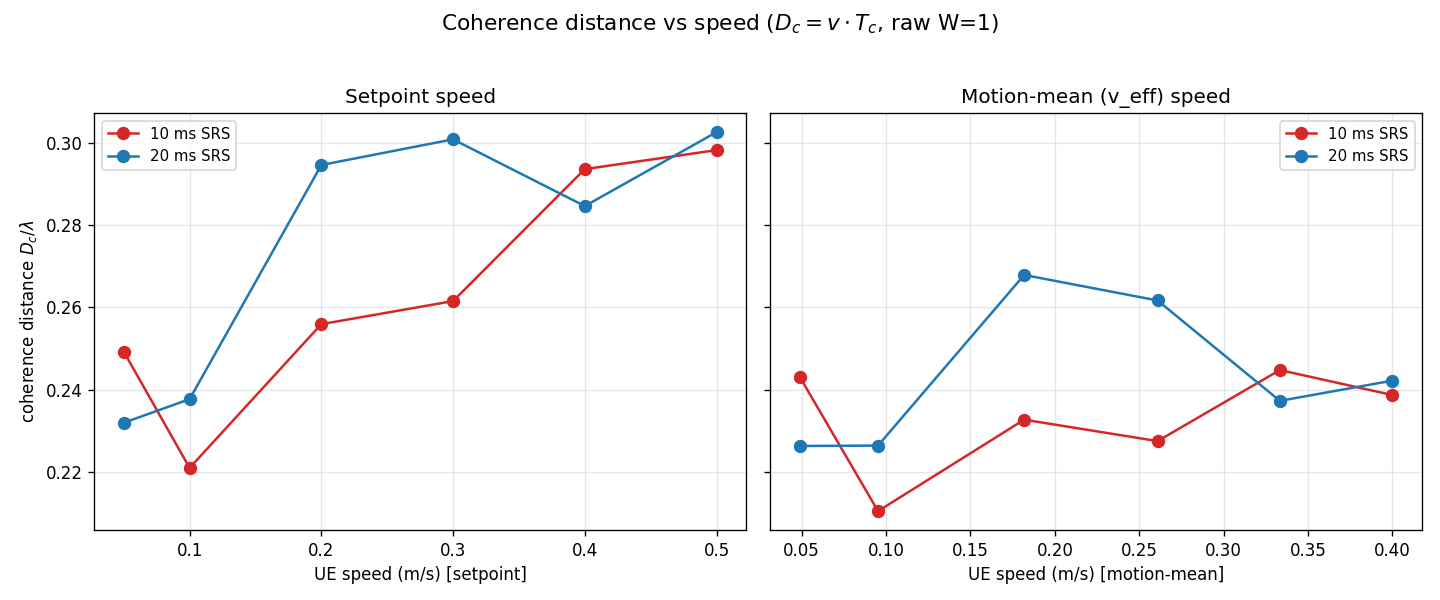
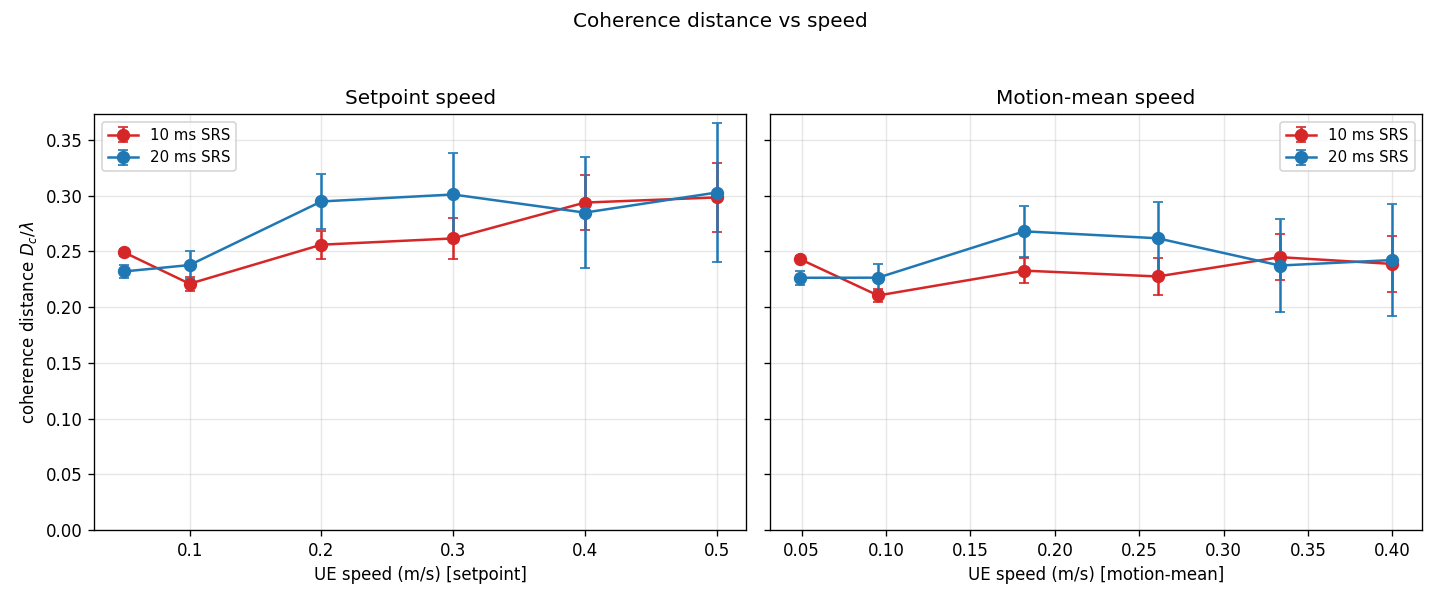
Plot cleanup: zero-based y, error bars, all points in mean, trimmed titles

diff --git a/tools/plot_Dc_errorbar.py b/tools/plot_Dc_errorbar.py
@@ -1,42 +1,26 @@
 #!/usr/bin/env python3
-"""
-plot_Dc_errorbar.py
-Coherence distance vs speed for ONE SRS rate, with error bars.
-Dc = v_eff * Tc, error bars = +/- half-sample Tc resolution (interpolated crossing).
-Mean +/- sd band over reliable range (v_set >= --reliable-min).
-
-Usage:
-  python3 plot_Dc_errorbar.py mobility_tc_rawwindow.csv --win 10 \
-      --x 0.5 --t-acc 0.5 --freq-ghz 3.75 -o Dc_10ms_errorbar.png
-"""
+"""Dc/lambda vs speed, one SRS rate, error bars + constant mean band."""
 import csv, argparse
 import numpy as np
 import matplotlib
 matplotlib.use("Agg")
 import matplotlib.pyplot as plt
 C=299_792_458.0
-
 def vmean(v,x,T_acc):
     full=2*x; Tc=(full-v*T_acc)/v
     return v if Tc<=0 else full/(2*T_acc+Tc)
-
 def main():
     ap=argparse.ArgumentParser()
-    ap.add_argument("csv")
-    ap.add_argument("--win",type=int,default=10)
-    ap.add_argument("--x",type=float,default=0.5)
-    ap.add_argument("--t-acc",type=float,default=0.5)
+    ap.add_argument("csv"); ap.add_argument("--win",type=int,default=10)
+    ap.add_argument("--x",type=float,default=0.5); ap.add_argument("--t-acc",type=float,default=0.5)
     ap.add_argument("--freq-ghz",type=float,default=3.75)
     ap.add_argument("--speed",choices=["v_eff","setpoint"],default="v_eff")
     ap.add_argument("--drop-speed",type=float,nargs="*",default=[0.02])
-    ap.add_argument("--reliable-min",type=float,default=0.2)
-    ap.add_argument("--err-samples",type=float,default=0.5,
-                    help="Tc uncertainty in samples (0.5 for interpolated crossing)")
+    ap.add_argument("--reliable-min",type=float,default=0.0)
+    ap.add_argument("--err-samples",type=float,default=0.5)
     ap.add_argument("-o","--out",default="Dc_errorbar.png")
     args=ap.parse_args()
-
-    lam=C/(args.freq_ghz*1e9)
-    rows=[]
+    lam=C/(args.freq_ghz*1e9); rows=[]
     with open(args.csv) as f:
         for r in csv.DictReader(f):
             try:
@@ -46,35 +30,27 @@ def main():
                 rows.append((vs,float(r["Tc_meas_s"])))
             except (ValueError,KeyError): continue
     rows.sort()
-    if not rows:
-        print("no rows for win",args.win); return
     vs=np.array([r[0] for r in rows]); Tc=np.array([r[1] for r in rows])
     veff=np.array([vmean(v,args.x,args.t_acc) for v in vs])
-    vx = veff if args.speed=="v_eff" else vs
+    vx=veff if args.speed=="v_eff" else vs
     Dc=vx*Tc/lam
-    period=args.win/1000.0
-    dTc=args.err_samples*period
-    dDc=vx*dTc/lam
-
+    dDc=vx*(args.err_samples*args.win/1000.0)/lam
     mask=vs>=args.reliable_min
     m=Dc[mask].mean(); sd=Dc[mask].std()
-
     fig,ax=plt.subplots(figsize=(8,5.2))
     ax.axhline(m,color='green',lw=1.6,label=f'mean = {m:.3f} λ  (±{sd:.3f})')
     ax.fill_between([vx.min()*0.9,vx.max()*1.05],m-sd,m+sd,color='green',alpha=0.15)
     ax.errorbar(vx,Dc,yerr=dDc,fmt='o',color='#d62728',ms=8,capsize=4,lw=1.4,
-                label=f'measured $D_c=v\\cdot T_c$ ({args.win} ms)')
+                label=f'measured ({args.win} ms)')
     lab='effective (motion-mean)' if args.speed=='v_eff' else 'setpoint'
     ax.set_xlabel(f'{lab} UE speed  (m/s)')
     ax.set_ylabel('coherence distance  $D_c/\\lambda$')
-    ax.set_title(f'Coherence distance vs speed — {args.win} ms SRS (raw, W=1)\n'
-                 f'error bars = ±{args.err_samples} sample $T_c$ resolution',fontsize=11)
+    ax.set_title(f'Coherence distance vs speed — {args.win} ms SRS',fontsize=12)
     ax.set_ylim(0,max(0.45,(Dc+dDc).max()*1.1))
     ax.set_xlim(vx.min()*0.9,vx.max()*1.05)
     ax.grid(alpha=0.3); ax.legend(fontsize=9,loc='upper right')
     plt.tight_layout(); plt.savefig(args.out,dpi=120)
     print(f"wrote {args.out}")
     print(f"mean(v>={args.reliable_min}) = {m:.3f} ± {sd:.3f} λ = {m*lam*100:.2f} cm")
-    for v,d,e in zip(vx,Dc,dDc): print(f"  v={v:.3f}  Dc={d:.3f}±{e:.3f} λ")
-
+    for v,d,e in zip(vx,Dc,dDc): print(f"  v={v:.3f}  Dc={d:.3f}±{e:.3f}")
 if __name__=="__main__": main()

diff --git a/tools/plot_coherence_distance.py b/tools/plot_coherence_distance.py
@@ -1,9 +1,5 @@
 #!/usr/bin/env python3
-"""
-plot_coherence_distance.py
-Two panels: Dc/lambda vs speed for both SRS rates (10 & 20 ms).
-Left = setpoint speed, right = motion-mean (v_eff). No floor, no theory line.
-"""
+"""Dc/lambda vs speed, both SRS rates. Left=setpoint, right=motion-mean. Zero-based y, error bars."""
 import csv, argparse
 import numpy as np
 import matplotlib
@@ -33,9 +29,9 @@ def main():
     ap.add_argument("--t-acc",type=float,default=0.5)
     ap.add_argument("--freq-ghz",type=float,default=3.75)
     ap.add_argument("--drop-speed",type=float,nargs="*",default=[0.02])
+    ap.add_argument("--err-samples",type=float,default=0.5)
     ap.add_argument("-o","--out",default="coherence_distance.png")
-    # accept --win for compatibility but plot both rates
-    ap.add_argument("--win",type=int,default=None,help="(ignored; both rates plotted)")
+    ap.add_argument("--win",type=int,default=None)
     args=ap.parse_args()
     lam=C/(args.freq_ghz*1e9)
     rows=[r for r in load(args.csv) if r["v_set"] not in args.drop_speed]
@@ -48,15 +44,18 @@ def main():
     d10,d20=subset(10),subset(20)
     fig,axes=plt.subplots(1,2,figsize=(12,5),sharey=True)
     for ax,mode in zip(axes,["setpoint","motion-mean"]):
-        for (vset,veff,Tc),col,lab in [(d10,"#d62728","10 ms SRS"),(d20,"#1f77b4","20 ms SRS")]:
+        for (vset,veff,Tc),col,lab,win in [(d10,"#d62728","10 ms SRS",10),(d20,"#1f77b4","20 ms SRS",20)]:
             if len(vset)==0: continue
             vx=vset if mode=="setpoint" else veff
-            ax.plot(vx,vx*Tc/lam,"o-",color=col,ms=7,lw=1.5,label=lab)
+            Dc=vx*Tc/lam
+            dDc=vx*(args.err_samples*win/1000.0)/lam
+            ax.errorbar(vx,Dc,yerr=dDc,fmt='o-',color=col,ms=7,lw=1.5,capsize=3,label=lab)
         ax.set_xlabel(f"UE speed (m/s) [{mode}]"); ax.grid(alpha=0.3); ax.legend(fontsize=9)
+        ax.set_ylim(0,None)
     axes[0].set_ylabel("coherence distance $D_c/\\lambda$")
-    axes[0].set_title("Setpoint speed"); axes[1].set_title("Motion-mean (v_eff) speed")
-    fig.suptitle("Coherence distance vs speed ($D_c=v\\cdot T_c$, raw W=1)",fontsize=13)
-    plt.tight_layout(rect=[0,0,1,0.96]); plt.savefig(args.out,dpi=120)
+    axes[0].set_title("Setpoint speed"); axes[1].set_title("Motion-mean speed")
+    fig.suptitle("Coherence distance vs speed",fontsize=12)
+    plt.tight_layout(rect=[0,0,1,0.95]); plt.savefig(args.out,dpi=120)
     print("wrote",args.out)
 
 if __name__=="__main__": main()
